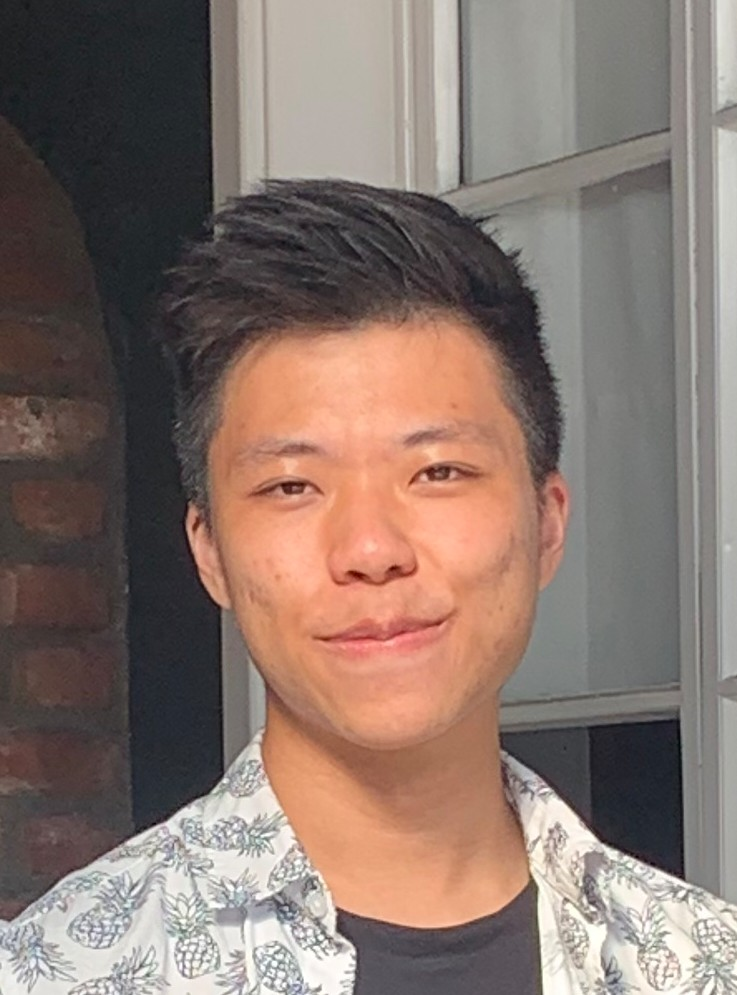
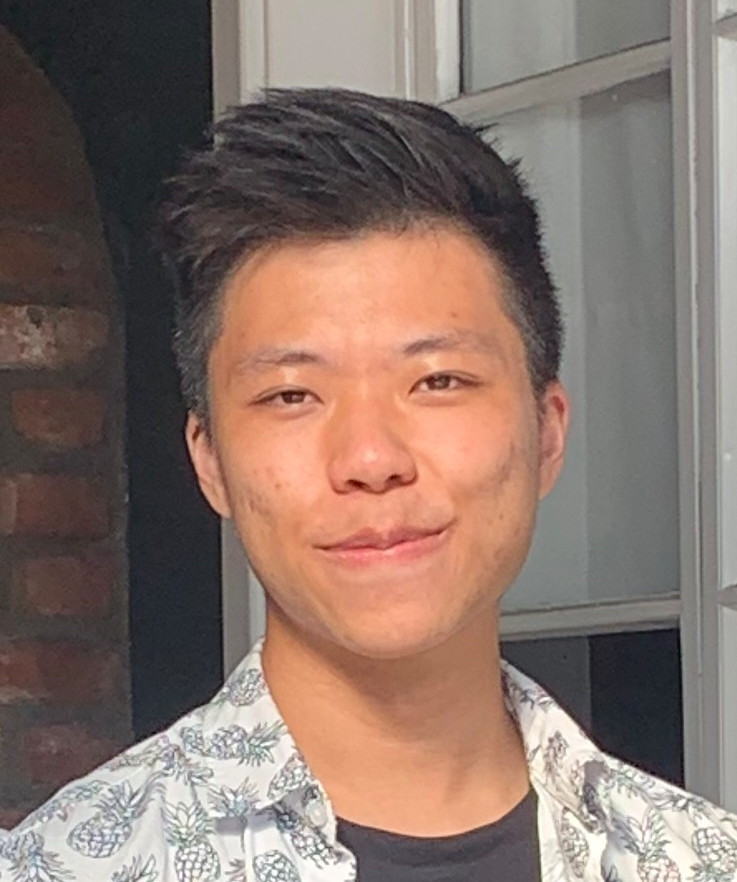
image adjustments and added final officers for now

diff --git a/components/sections/Officers/OfficersList.tsx b/components/sections/Officers/OfficersList.tsx
@@ -10,6 +10,7 @@ import imgDevelopmentCoord from "public/officers/seth.jpg";
 import imgGraduate from "public/officers/ross.jpg";
 import imgFaculty from "public/officers/mark.jpg";
 import imgTreasurer from "public/officers/josh.png";
+import imgEDICoord from "public/officers/andres.jpg";
 import imgBlank from "public/officers/blank.png";
 import OfficersBlock from "./OfficersBlock";
 
@@ -36,6 +37,20 @@ const officerList: officerData[] = [
     position: "Webmaster",
   },
   {
+    name: "Joshua Cantrell",
+    pronouns: "He/Him",
+    email: "jrcantre@ucsd.edu",
+    imgSrc: imgTreasurer,
+    position: "Treasurer",
+  },
+  {
+    name: "Nafanil Ceshkovsky",
+    pronouns: "He/Him",
+    email: "naceshko@ucsd.edu",
+    imgSrc: imgBlank,
+    position: "Secretary",
+  },
+  {
     name: "Bryan Cheng",
     pronouns: "He/Him",
     email: "c9cheng@ucsd.edu",
@@ -57,13 +72,26 @@ const officerList: officerData[] = [
     position: "Development Coordinator",
   },
   {
-    name: "Joshua Cantrell",
+    name: "Andres Hernandez",
     pronouns: "He/Him",
-    email: "jrcantre@ucsd.edu",
-    imgSrc: imgTreasurer,
-    position: "Treasurer",
+    email: "anh009@ucsd.edu",
+    imgSrc: imgEDICoord,
+    position: "EDI Coordinator",
   },
-
+  {
+    name: "Sakshi Patel",
+    pronouns: "She/Her",
+    email: "sap020@ucsd.edu",
+    imgSrc: imgBlank,
+    position: "Social/Outreach Chair",
+  },
+  {
+    name: "Sherry Tao",
+    pronouns: "She/Her",
+    email: "s2tao@ucsd.edu",
+    imgSrc: imgBlank,
+    position: "Social/Outreach Chair",
+  },
   {
     name: "Ross Turner",
     pronouns: "He/Him",
